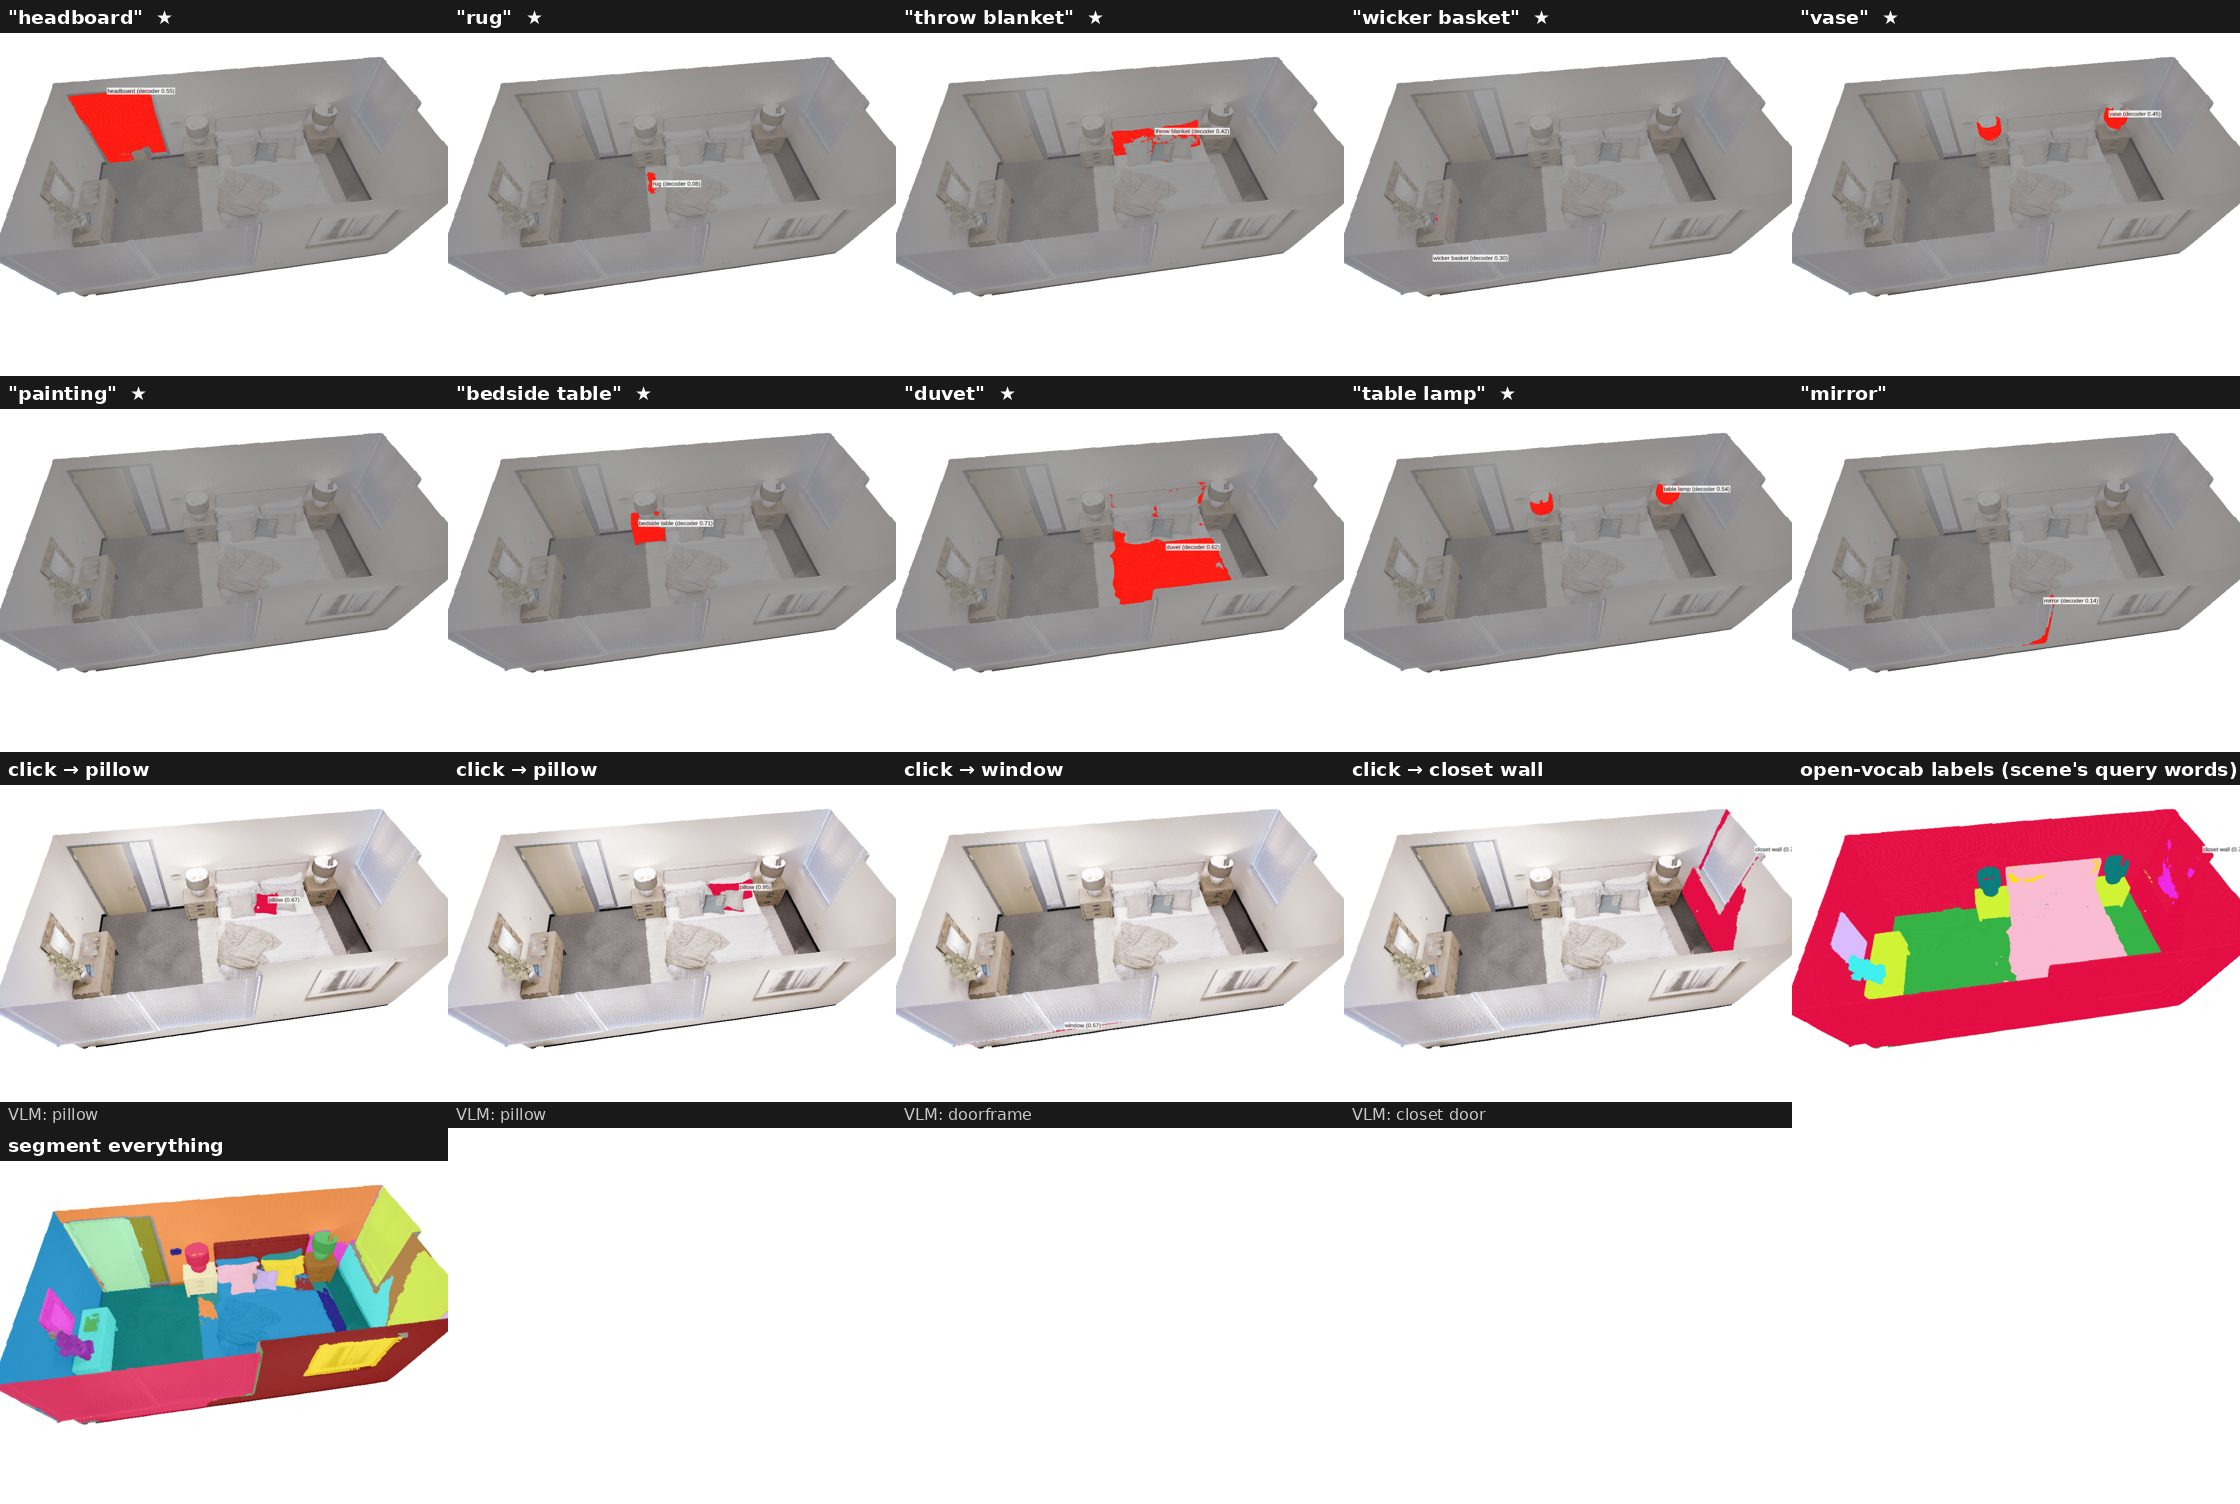
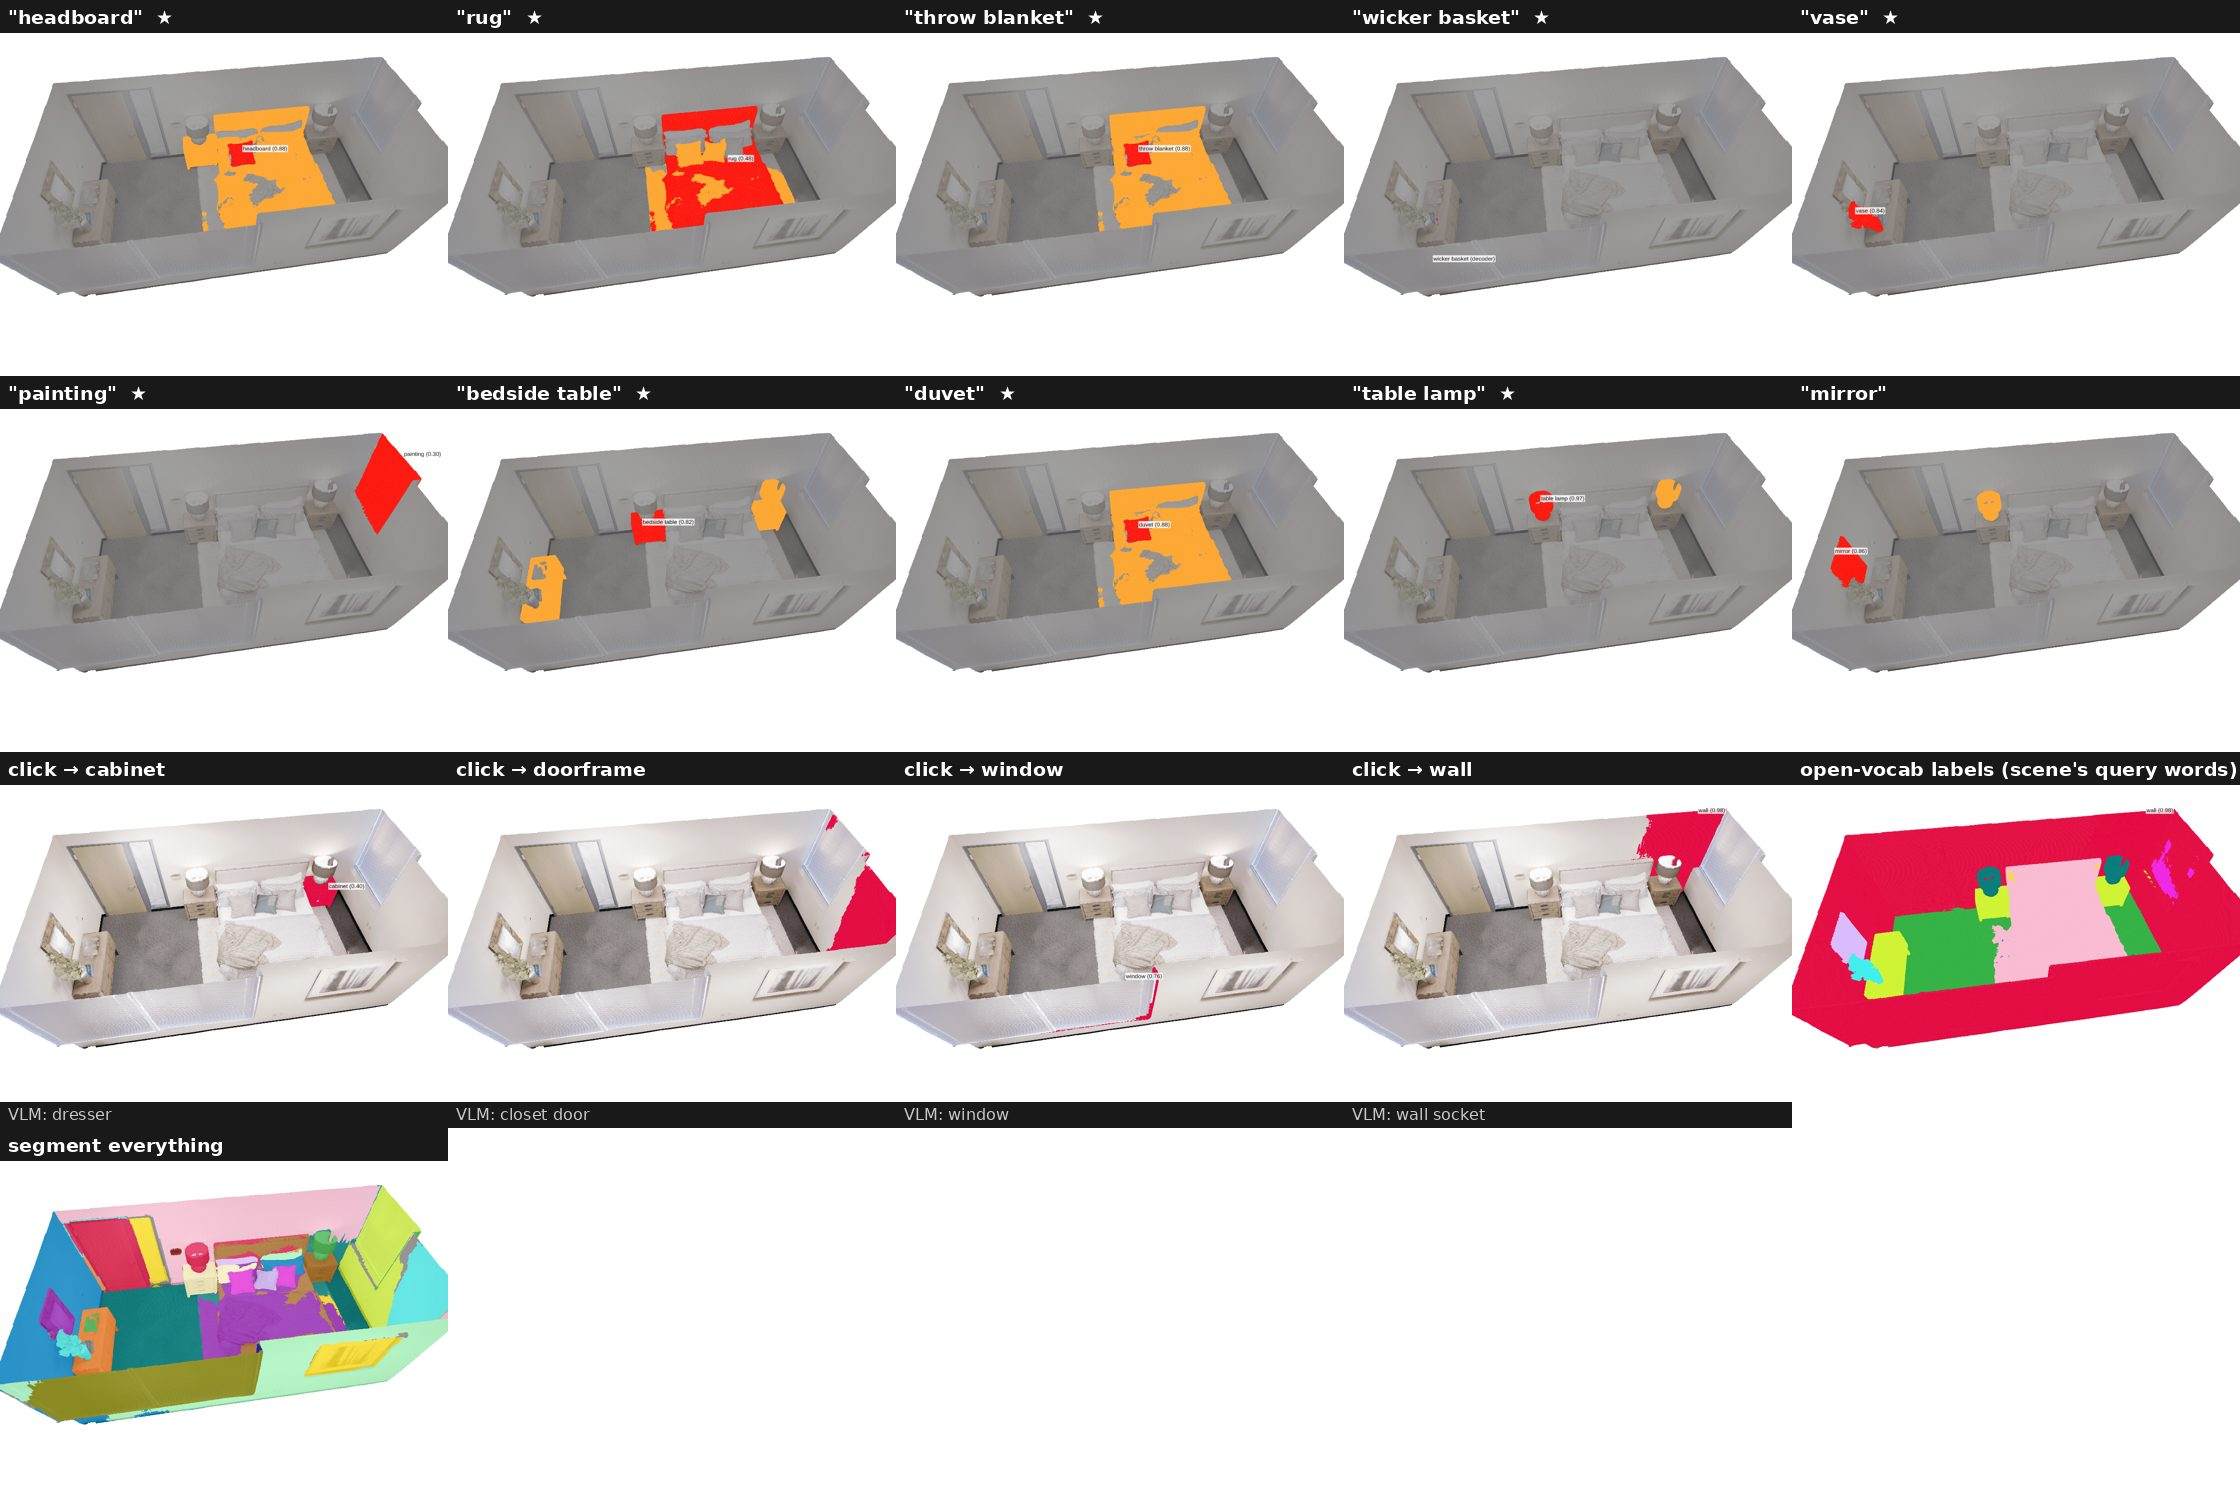
Update gallery with final viewer

diff --git a/README.md b/README.md
@@ -56,7 +56,8 @@ All numbers are produced by the scripts in this repo; every table, with its sour
 Unfiltered results from the viewer on 17 scenes from four datasets (none of them SNAP's example scenes). Each grid shows
 10 text queries (★ = word absent from SNAP's training vocabulary), 4 randomly chosen objects clicked and named
 (the VLM's choice shown below), open-vocabulary labels with the scene's own query words, and segment-everything.
-Failures are kept: flat objects on walls (paintings, whiteboards, maps, clocks) are the main failure mode.
+In query tiles the best match is red and other strong matches orange; when no stored object matches confidently the
+text decoder's mask is shown instead. Failures are kept (e.g. `rug` → sofa, `sideboard` → coffee table first).
 
 <details open><summary><b>Replica</b> (8 scenes, held out from all training)</summary>
 
